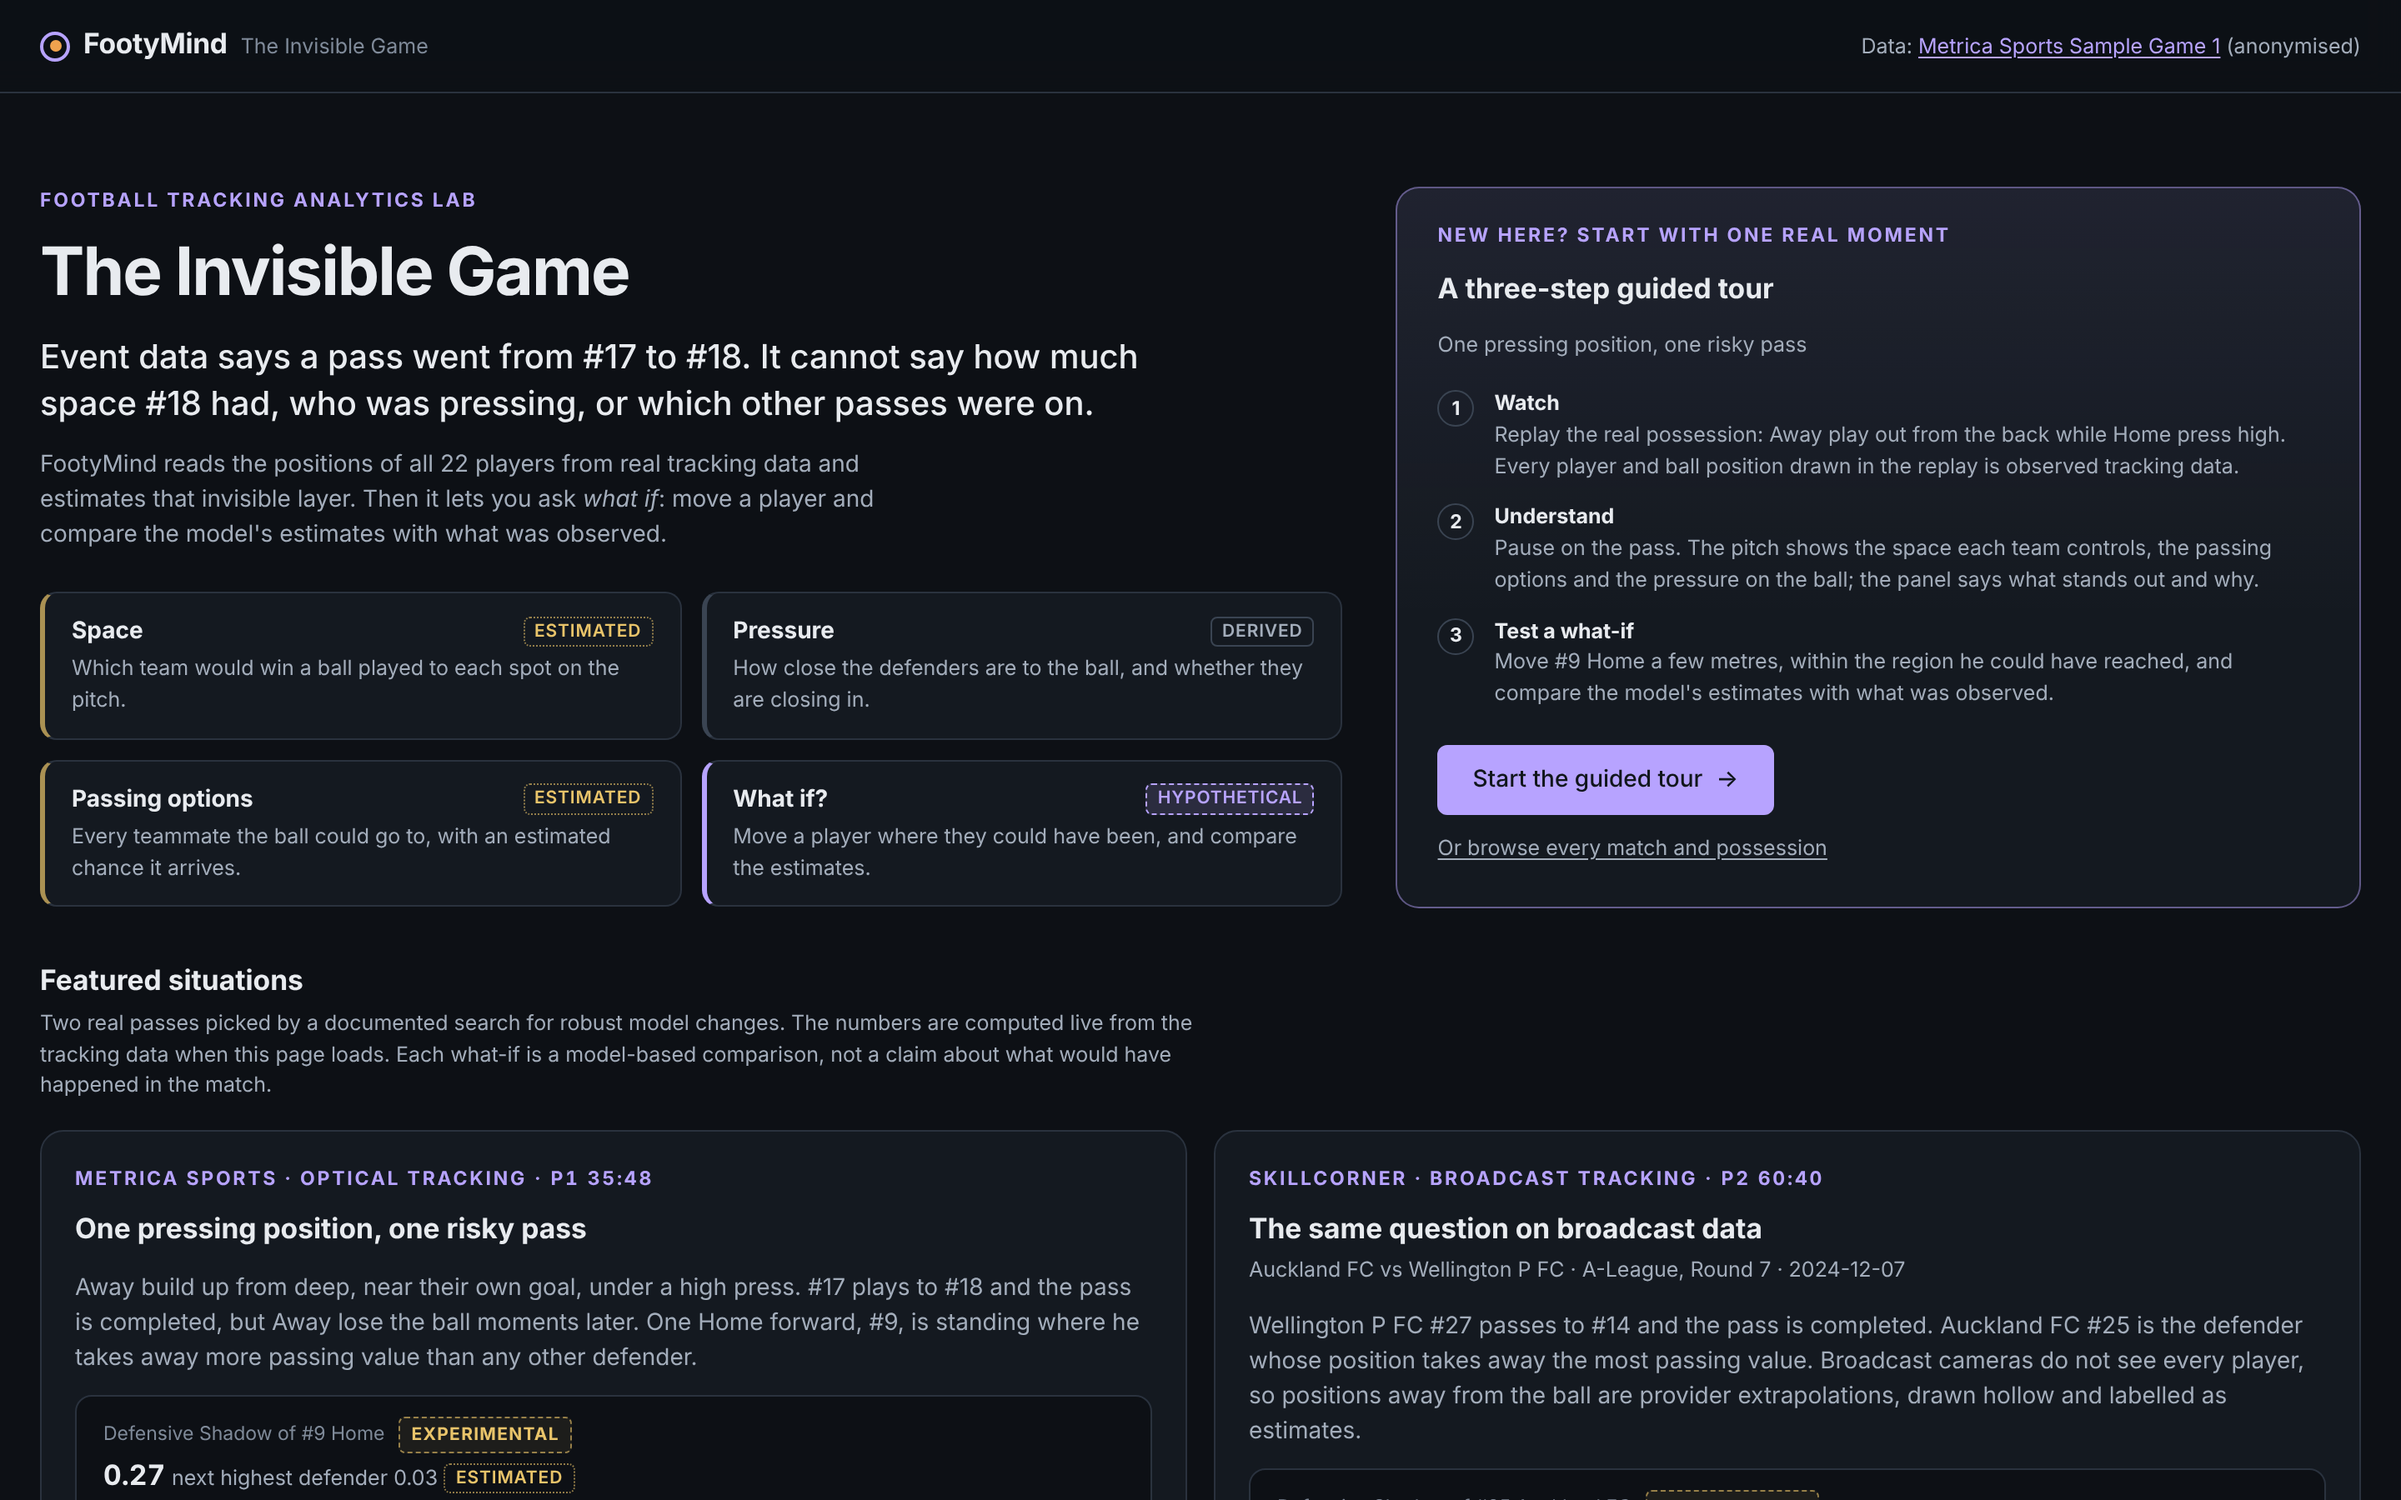
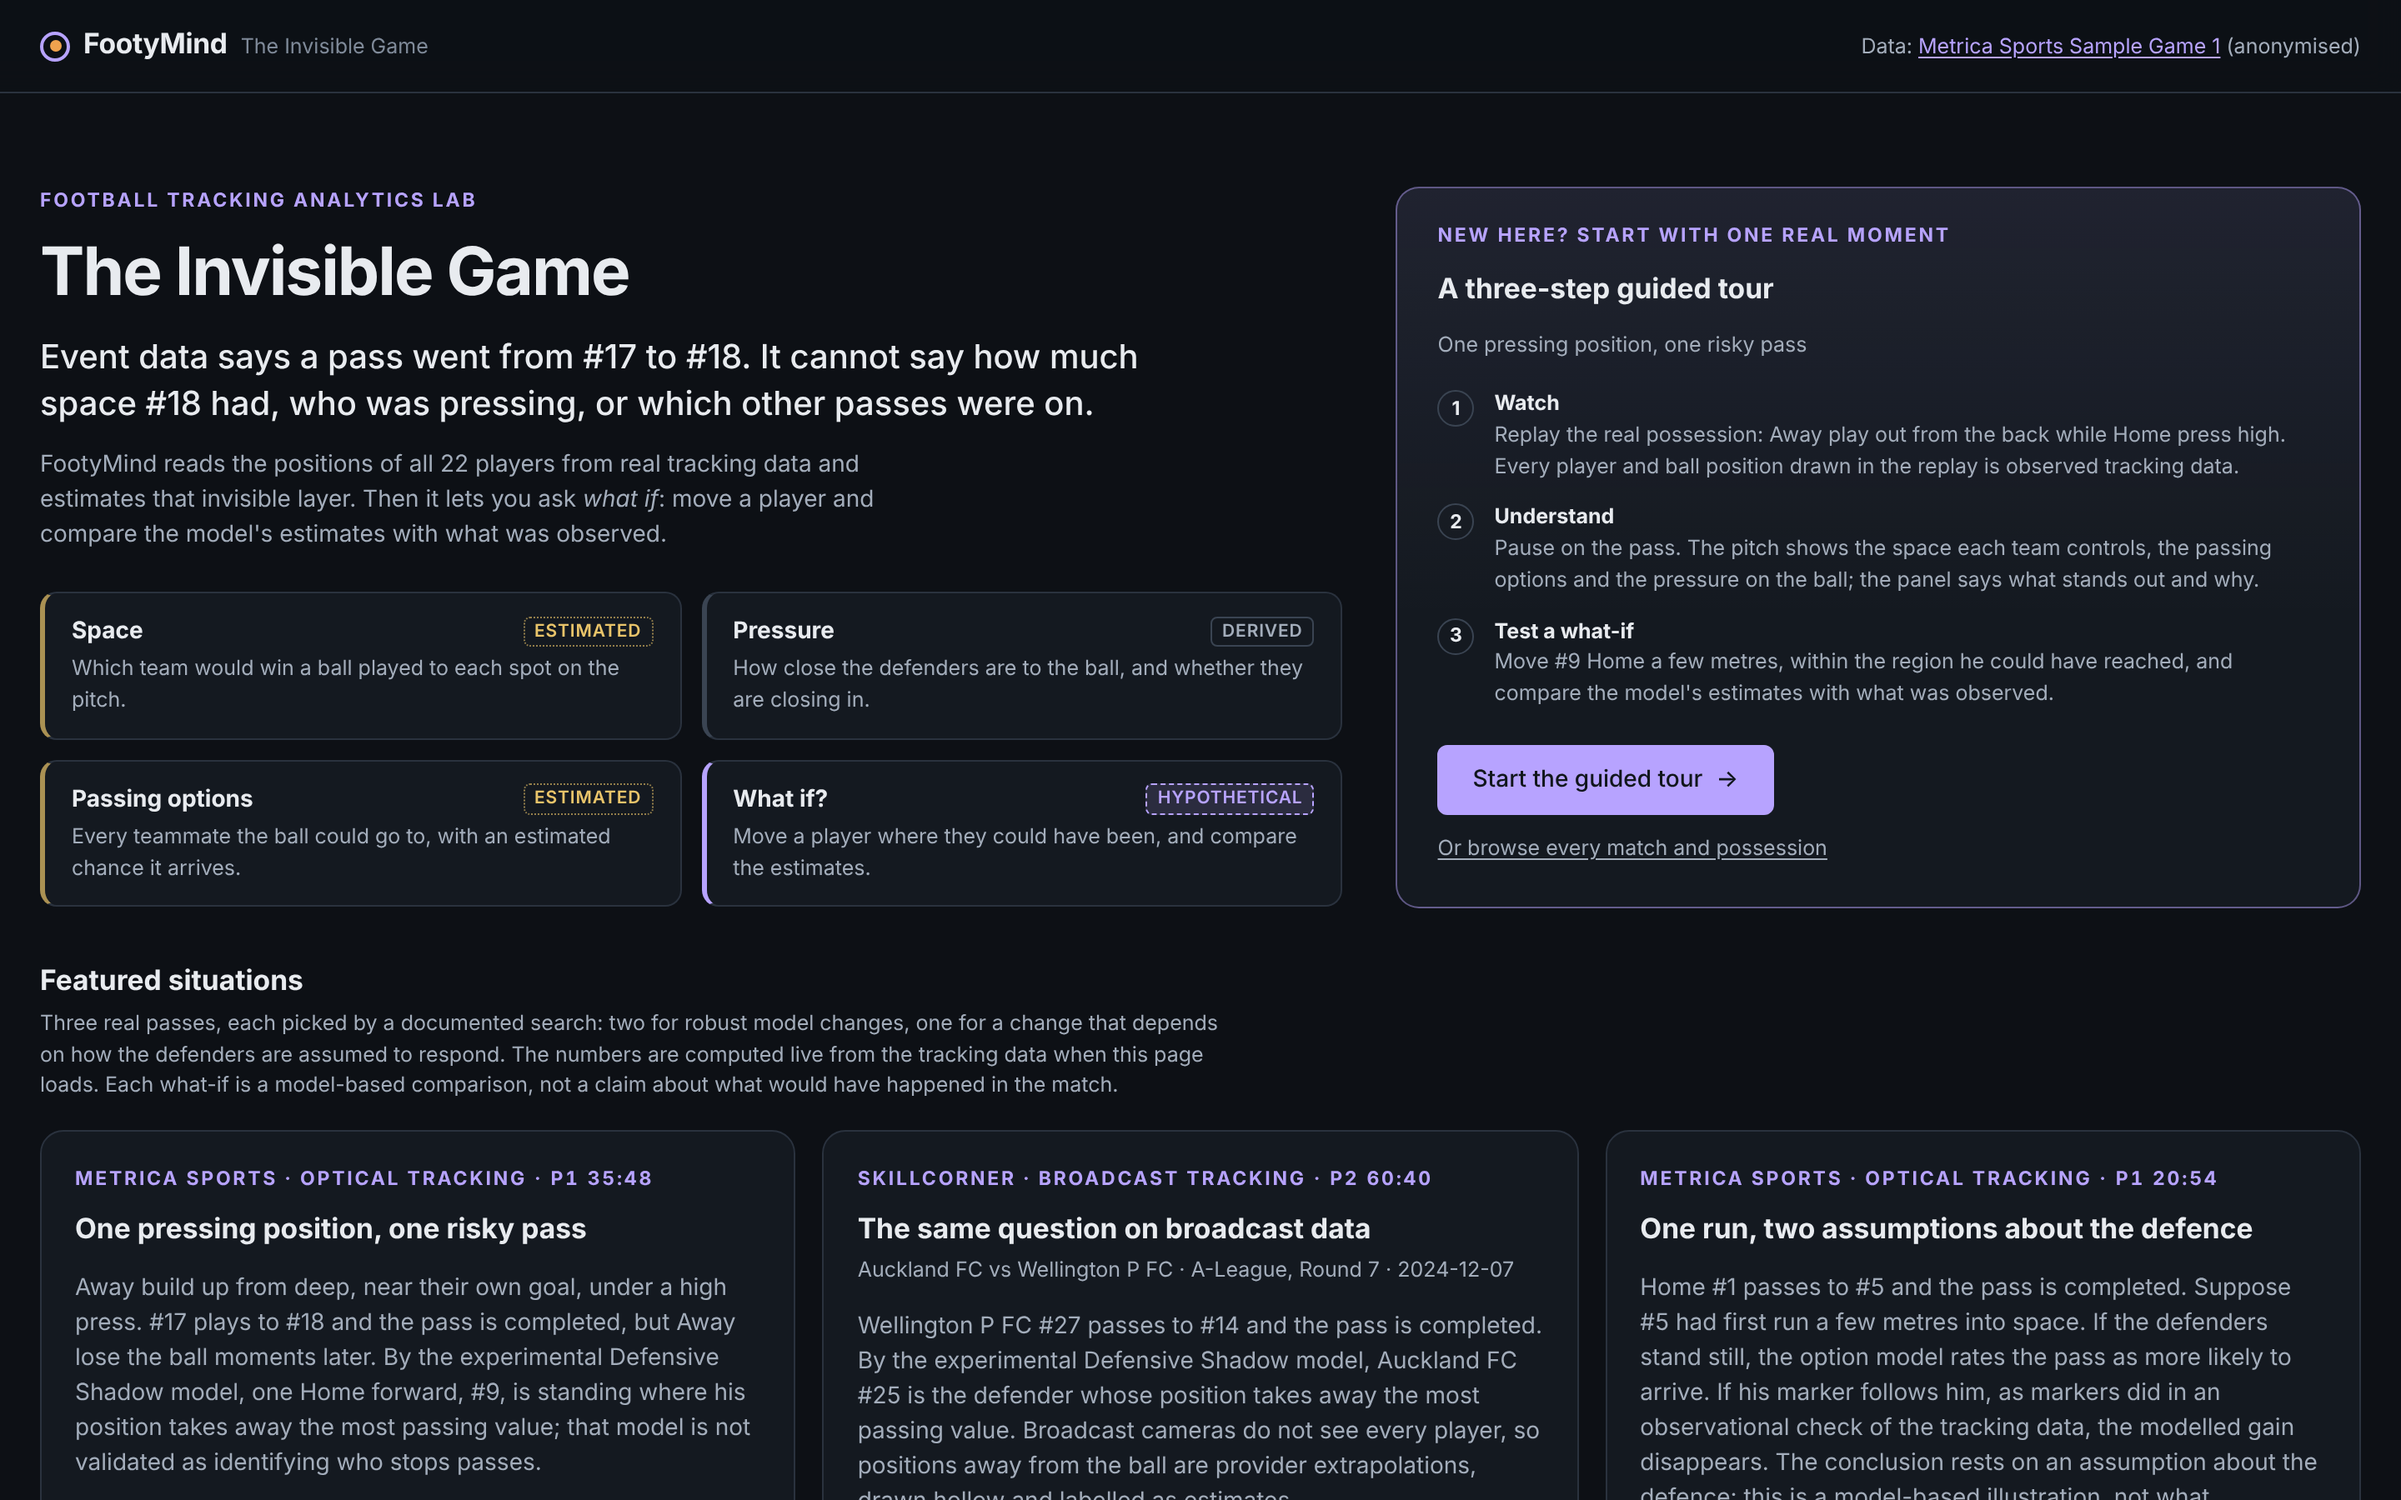
Screenshots: landing with three featured situations, and the response tour's what-if step

Changed region(s): [[0.0312, 0.7778, 0.9688, 1.0], [0.0312, 0.6533, 0.5, 0.7467]]

diff --git a/web/e2e/screenshots.spec.ts b/web/e2e/screenshots.spec.ts
@@ -62,6 +62,17 @@ test.describe("desktop", () => {
     await page.screenshot({ path: `${DIR}/guided-tour-desktop.png` });
   });
 
+  test("guided tour, static vs defender response", async ({ page }) => {
+    await page.goto("/#/at/metrica-sample-2?f=31360&tour=response");
+    await waitForAnalysis(page);
+    await page.getByTestId("guide-step-3").click();
+    await expect(page.getByTestId("scenario-panel")).toHaveAttribute("data-status", "success", { timeout: 30_000 });
+    await expect(page.getByTestId("policy-comparison")).toBeVisible({ timeout: 30_000 });
+    await page.mouse.move(0, 0);
+    await page.waitForTimeout(150);
+    await page.screenshot({ path: `${DIR}/guided-tour-response-desktop.png` });
+  });
+
   test("lab analysis and scenario", async ({ page }) => {
     await openGoalPossession(page);
     const frame = await pauseOnLaterFrame(page);
